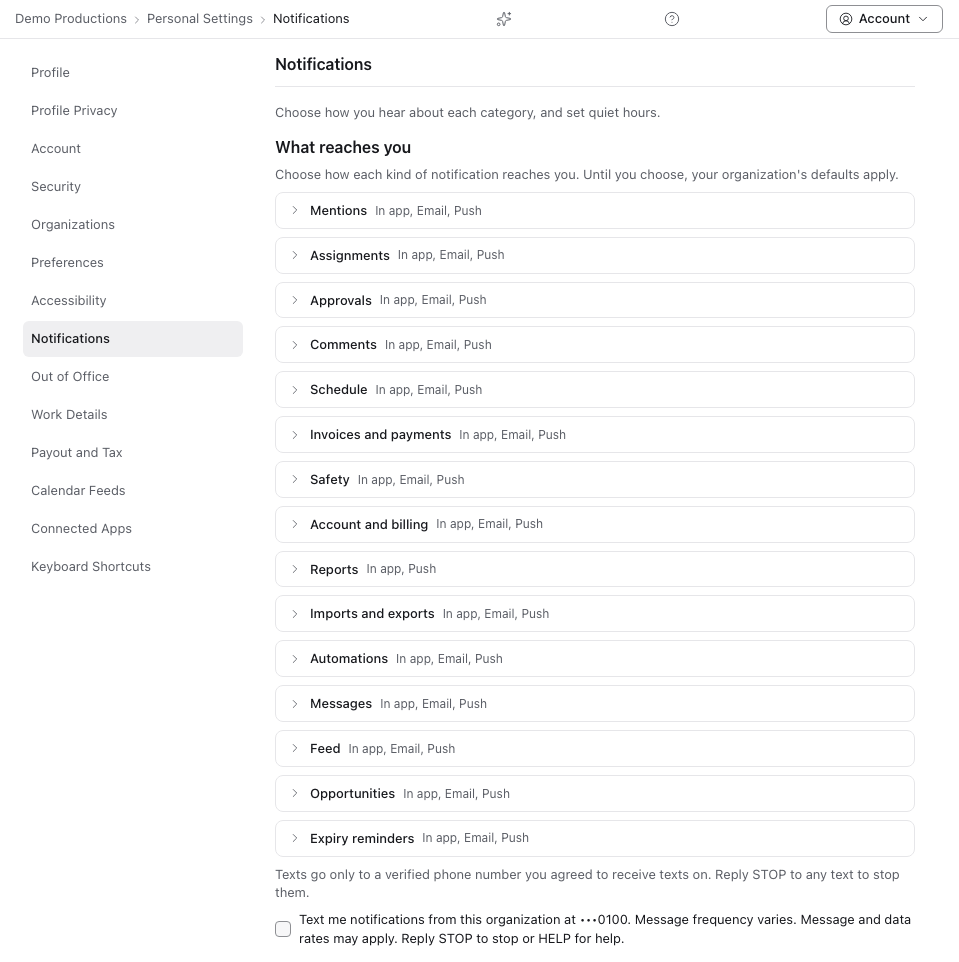
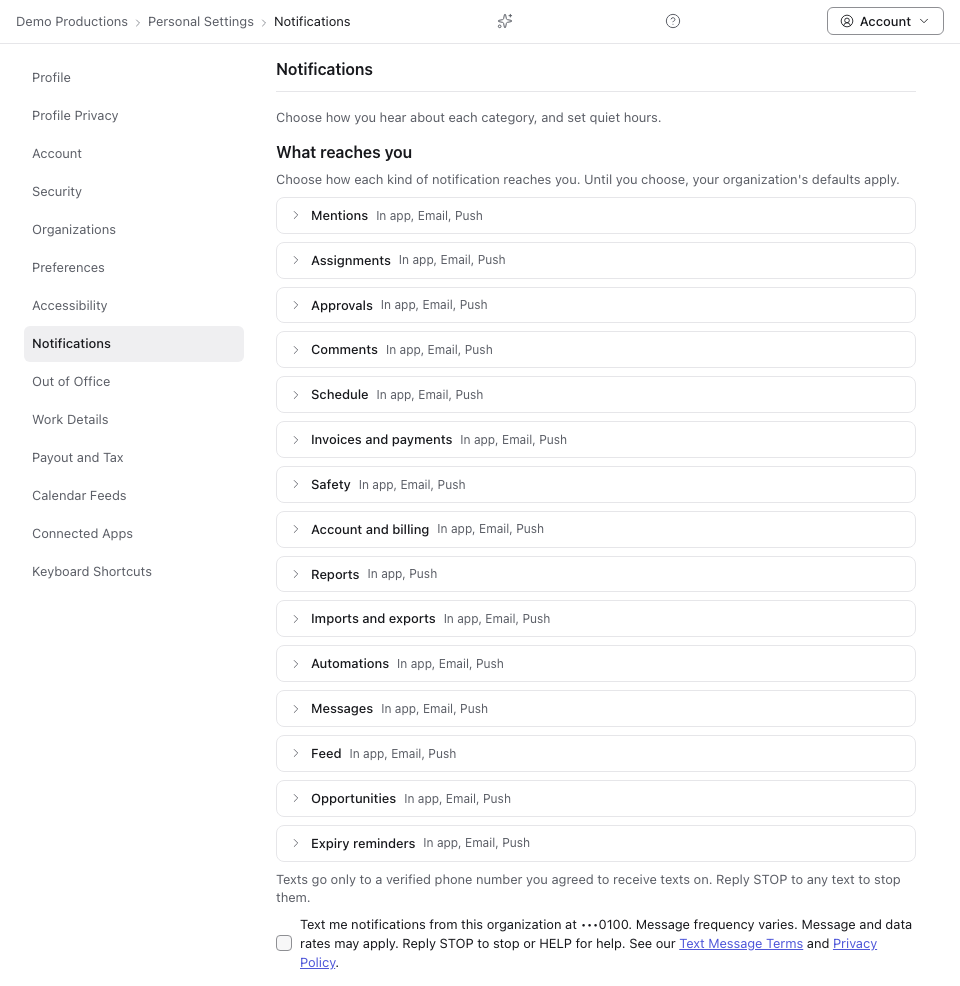
fix(settings): link the Text Message Terms and Privacy Policy in the consent to texts
The 10DLC carrier review asked for a link to the privacy policy in the SMS
consent statement. The consent checkbox in Atlas Personal settings,
Notifications now ends with "See our Text Message Terms and Privacy Policy."
Both names are links inside the label: the terms open /legal/text-message-terms
and the policy opens /legal/privacy-policy#section-17, in a new tab, as the
legal links in Gateway's sign-up do. A click on a link does not tick the box.
Compass shows the same sentence under its consent switch, with the same links
on Atlas.

The docs guides quote the new wording, and /sms-opt-in.png is retaken with it.

Refs: RRR-266

diff --git a/apps/compass/src/screens/settings/Notifications.tsx b/apps/compass/src/screens/settings/Notifications.tsx
@@ -20,7 +20,8 @@ import { getMyQuietHours, listMyNotificationPreferences } from "@xos/data/party-
 import type { Row } from "@xos/sync";
 import { useCallback, useMemo, useState, type ReactElement } from "react";
 import { useTranslation } from "react-i18next";
-import { View } from "react-native";
+import * as Linking from "expo-linking";
+import { Text as NativeText, View } from "react-native";
 import { useCompass } from "../../runtime/CompassProvider";
 import {
   CHANNEL_KEYS,
@@ -40,6 +41,8 @@ import {
   quietHoursOf,
   quietHoursRow,
   quietHoursWrite,
+  SMS_CONSENT_PATHS,
+  smsConsentParts,
   withSmsConsent,
   type QuietHours,
   type QuietHoursInput,
@@ -207,7 +210,8 @@ function QuietHoursCard({
 /** Consent to texts in one org: recorded online only, when the person reads the wording (TCPA, Section 14.5). */
 function TextsCard({ orgId, row }: { readonly orgId: string; readonly row: Row }): ReactElement {
   const { t } = useTranslation();
-  const { client, store, network } = useCompass();
+  const theme = useTheme();
+  const { client, config, store, network } = useCompass();
   const [busy, setBusy] = useState(false);
   const [error, setError] = useState<string | null>(null);
   const settings = orgSettingsOf(row);
@@ -239,13 +243,33 @@ function TextsCard({ orgId, row }: { readonly orgId: string; readonly row: Row }
         {t(`${N}.mine.smsNote`)}
       </Text>
       {settings?.phoneLast4 ? (
-        <Switch
-          testID="notify-texts-consent"
-          label={t(`${N}.mine.smsConsent`, { phone: `•••${settings.phoneLast4}` })}
-          value={settings.mayText}
-          disabled={!online || busy}
-          onChange={(consent) => void record(consent)}
-        />
+        <>
+          <Switch
+            testID="notify-texts-consent"
+            label={t(`${N}.mine.smsConsent`, { phone: `•••${settings.phoneLast4}` })}
+            value={settings.mayText}
+            disabled={!online || busy}
+            onChange={(consent) => void record(consent)}
+          />
+          <Text variant="text13" tone="secondary" testID="notify-texts-links">
+            {smsConsentParts(t(`${N}.mine.smsConsentLinks`)).map((part, i) =>
+              "link" in part ? (
+                <NativeText
+                  key={i}
+                  accessibilityRole="link"
+                  onPress={() =>
+                    void Linking.openURL(`${config.atlasUrl}${SMS_CONSENT_PATHS[part.link]}`)
+                  }
+                  style={{ color: theme.color.accentText, textDecorationLine: "underline" }}
+                >
+                  {part.text}
+                </NativeText>
+              ) : (
+                <NativeText key={i}>{part.text}</NativeText>
+              ),
+            )}
+          </Text>
+        </>
       ) : (
         <Text tone="secondary">{t(`${N}.mine.smsNoPhone`)}</Text>
       )}

diff --git a/apps/atlas/components/settings/notification-forms.tsx b/apps/atlas/components/settings/notification-forms.tsx
@@ -1,6 +1,8 @@
 "use client";
 
 import { Button, Checkbox, InlineAlert, Input, Select } from "@xos/ui";
+import type { Route } from "next";
+import Link from "next/link";
 import { useFormatter, useTranslations } from "next-intl";
 import { useActionState, useState, type ReactNode } from "react";
 import {
@@ -9,6 +11,7 @@ import {
   type NotificationFormState,
 } from "@/app/[org]/settings/notification-actions";
 import { keepInputOnSubmit } from "@/components/collection-kit/keep-input";
+import { SMS_CONSENT_LINKS } from "@/lib/legal-links";
 import { MATRIX_CHANNELS } from "@/lib/settings/notification-matrix";
 import { ChoiceDisclosure } from "./choice-disclosure";
 import * as enums from "@xos/data/enums";
@@ -21,6 +24,40 @@ import * as enums from "@xos/data/enums";
  * channels would put 60 boxes on the page, past gate 27's seven fields (Section 18). A group offers only
  * the channels its category's kinds reach (A104).
  */
+
+/**
+ * A link inside the consent to texts (RRR-266). It opens in a new tab, as the legal links in Gateway's
+ * sign-up do, so the unsaved form stays. A link inside the label does not toggle the box: a click on
+ * interactive content in a label does not activate its control.
+ */
+/** The consent to texts with its links, all inside the label the box is named by. */
+function SmsConsentLabel({ phone }: { readonly phone: string }) {
+  const t = useTranslations("settings.notifications.mine");
+  return (
+    <span>
+      {t("smsConsent", { phone })}{" "}
+      {t.rich("smsConsentLinks", {
+        terms: smsConsentLink(SMS_CONSENT_LINKS.terms),
+        privacy: smsConsentLink(SMS_CONSENT_LINKS.privacy),
+      })}
+    </span>
+  );
+}
+
+function smsConsentLink(href: string) {
+  return function SmsConsentLink(chunks: ReactNode) {
+    return (
+      <Link
+        href={href as Route}
+        target="_blank"
+        rel="noopener"
+        className="text-accent-text underline"
+      >
+        {chunks}
+      </Link>
+    );
+  };
+}
 
 type Translate = (key: string, values?: Record<string, string | number>) => string;
 type Option = { readonly value: string; readonly label: string };
@@ -247,7 +284,7 @@ export function MyNotificationsForm({
             <Checkbox
               name="smsConsent"
               defaultChecked={sms.mayText}
-              label={t("mine.smsConsent", { phone: sms.phone })}
+              label={<SmsConsentLabel phone={sms.phone} />}
             />
           </>
         )}

diff --git a/apps/compass/src/settings/notifications.ts b/apps/compass/src/settings/notifications.ts
@@ -271,6 +271,33 @@ export function withSmsConsent(row: Row, consent: boolean): Row {
   return { ...row, may_text: consent };
 }
 
+/** The pages the consent to texts links, on Atlas (RRR-266): the Text Message Terms and the Privacy Policy's section 17. */
+export const SMS_CONSENT_PATHS = {
+  terms: "/legal/text-message-terms",
+  privacy: "/legal/privacy-policy#section-17",
+} as const;
+
+export type SmsConsentPart =
+  | { readonly text: string }
+  | { readonly text: string; readonly link: keyof typeof SMS_CONSENT_PATHS };
+
+/**
+ * The sentence after the consent to texts split into plain text and its two links. The catalog marks the links with
+ * <terms> and <privacy>, as Atlas's next-intl reads them; i18next leaves the tags in, so Compass splits them here.
+ */
+export function smsConsentParts(message: string): readonly SmsConsentPart[] {
+  const parts: SmsConsentPart[] = [];
+  const tag = /<(terms|privacy)>(.*?)<\/\1>/g;
+  let at = 0;
+  for (const match of message.matchAll(tag)) {
+    if (match.index > at) parts.push({ text: message.slice(at, match.index) });
+    parts.push({ text: match[2] ?? "", link: match[1] as keyof typeof SMS_CONSENT_PATHS });
+    at = match.index + match[0].length;
+  }
+  if (at < message.length) parts.push({ text: message.slice(at) });
+  return parts;
+}
+
 // Quiet hours and the digest: the checks before a save ----------------------------------------------------------------
 
 /** What is wrong with a quiet hours field: not a time, one time without the other, both the same, or no zone. */

diff --git a/apps/atlas/test/legal-links.test.ts b/apps/atlas/test/legal-links.test.ts
@@ -1,7 +1,12 @@
 import { readFileSync } from "node:fs";
 import { describe, expect, it } from "vitest";
 import { parse } from "yaml";
-import { LEGAL_LINK_DOCUMENTS, legalLinks, servesLegalPage } from "@/lib/legal-links";
+import {
+  LEGAL_LINK_DOCUMENTS,
+  legalLinks,
+  servesLegalPage,
+  SMS_CONSENT_LINKS,
+} from "@/lib/legal-links";
 
 /**
  * The public legal links (RRR-248) link only pages Atlas's /legal/[document] serves: a document
@@ -40,5 +45,24 @@ describe("public legal links", () => {
   it("never serves an internal document or an unknown slug", () => {
     expect(servesLegalPage("compliance-matrix")).toBe(false);
     expect(servesLegalPage("no-such-document")).toBe(false);
+  });
+});
+
+describe("the consent to texts links", () => {
+  it("links the Text Message Terms and the Privacy Policy's text message section, both served", () => {
+    expect(SMS_CONSENT_LINKS).toEqual({
+      terms: "/legal/text-message-terms",
+      privacy: "/legal/privacy-policy#section-17",
+    });
+    expect(servesLegalPage("text-message-terms")).toBe(true);
+    expect(servesLegalPage("privacy-policy")).toBe(true);
+  });
+
+  it("points the privacy link at the section headed Text Messages", () => {
+    const policy = readFileSync(
+      new URL("../../../legal/privacy-policy.md", import.meta.url),
+      "utf8",
+    );
+    expect(policy).toMatch(/^## 17\. Text Messages$/m);
   });
 });

diff --git a/apps/compass/test/notification-matrix.test.ts b/apps/compass/test/notification-matrix.test.ts
@@ -25,6 +25,8 @@ import {
   quietHoursRow,
   quietHoursWrite,
   reachedChannels,
+  SMS_CONSENT_PATHS,
+  smsConsentParts,
   withSmsConsent,
 } from "../src/settings/notifications";
 
@@ -305,6 +307,25 @@ describe("the member's quiet hours, digest and texts in an org", () => {
   it("show consent to texts once the server recorded it", () => {
     const row = orgSettingsRow(ORG, null, null, "UTC", { phone: "+13055550142", mayText: false });
     expect(orgSettingsOf(withSmsConsent(row, true))?.mayText).toBe(true);
+  });
+
+  it("split the consent's link sentence into text and the two legal links", () => {
+    expect(
+      smsConsentParts(
+        "See our <terms>Text Message Terms</terms> and <privacy>Privacy Policy</privacy>.",
+      ),
+    ).toEqual([
+      { text: "See our " },
+      { text: "Text Message Terms", link: "terms" },
+      { text: " and " },
+      { text: "Privacy Policy", link: "privacy" },
+      { text: "." },
+    ]);
+    expect(smsConsentParts("No links.")).toEqual([{ text: "No links." }]);
+    expect(SMS_CONSENT_PATHS).toEqual({
+      terms: "/legal/text-message-terms",
+      privacy: "/legal/privacy-policy#section-17",
+    });
   });
 });
 

diff --git a/apps/atlas/lib/legal-links.ts b/apps/atlas/lib/legal-links.ts
@@ -42,3 +42,13 @@ export function legalLinks(): { key: LegalLinkKey; href: `/legal/${string}` }[] 
     href: `/legal/${d.slug}`,
   }));
 }
+
+/**
+ * The pages the consent to texts links in Personal settings, Notifications (RRR-266): the Text
+ * Message Terms and the Privacy Policy's section on text messages. US carriers review the consent
+ * statement for both links.
+ */
+export const SMS_CONSENT_LINKS = {
+  terms: "/legal/text-message-terms",
+  privacy: "/legal/privacy-policy#section-17",
+} as const;

diff --git a/apps/docs/content/guides/es-US/text-messages.md b/apps/docs/content/guides/es-US/text-messages.md
@@ -19,13 +19,13 @@ Aceptar es opcional. No es una condición para trabajar con ninguna organizació
 
 1. Inicia sesión en Atlas y abre **Configuración personal** y luego **Notificaciones**.
 2. Asegúrate de que tu cuenta tenga un número de teléfono verificado. Mientras no lo tenga, la página dice "Agrega y verifica un número de teléfono en tu cuenta para recibir mensajes de texto." y no muestra la casilla de consentimiento.
-3. En **Qué te llega**, marca la casilla que dice: "Envíame notificaciones de esta organización por mensaje de texto al {phone}. La frecuencia de los mensajes varía. Pueden aplicarse tarifas de mensajes y datos. Responde STOP para detenerlos o HELP para obtener ayuda." En lugar de {phone}, la casilla muestra los últimos cuatro dígitos de tu número verificado.
+3. En **Qué te llega**, marca la casilla que dice: "Envíame notificaciones de esta organización por mensaje de texto al {phone}. La frecuencia de los mensajes varía. Pueden aplicarse tarifas de mensajes y datos. Responde STOP para detenerlos o HELP para obtener ayuda. Consulta nuestros Términos de mensajes de texto y nuestra Política de privacidad." En lugar de {phone}, la casilla muestra los últimos cuatro dígitos de tu número verificado. "Términos de mensajes de texto" y "Política de privacidad" son enlaces a esos documentos. Se abren en una pestaña nueva y no marcan la casilla.
 4. En la misma lista, elige qué tipos de notificaciones te llegan por **Mensaje de texto (SMS)**.
 5. Selecciona **Guardar configuración de notificaciones**.
 
 La casilla está sin marcar hasta que la marcas. Aparece marcada solo si ya aceptaste para esa organización y ese número.
 
-![La página Notificaciones de la Configuración personal de Atlas. Bajo el encabezado What reaches you (Qué te llega), una casilla sin marcar dice: Text me notifications from this organization at, seguido de un número de teléfono oculto. Message frequency varies. Message and data rates may apply. Reply STOP to stop or HELP for help.](/sms-opt-in.png)
+![La página Notificaciones de la Configuración personal de Atlas. Bajo el encabezado What reaches you (Qué te llega), una casilla sin marcar dice: Text me notifications from this organization at, seguido de un número de teléfono oculto. Message frequency varies. Message and data rates may apply. Reply STOP to stop or HELP for help. See our Text Message Terms and Privacy Policy. Text Message Terms (Términos de mensajes de texto) y Privacy Policy (Política de privacidad) son enlaces.](/sms-opt-in.png)
 
 ## El consentimiento es por organización
 

diff --git a/apps/docs/content/guides/en-US/text-messages.md b/apps/docs/content/guides/en-US/text-messages.md
@@ -19,13 +19,13 @@ Agreeing is optional. It is not a condition of working with any organization or 
 
 1. Sign in to Atlas and open **Personal settings**, then **Notifications**.
 2. Make sure your account has a verified phone number. Until it does, the page says "Add and verify a phone number on your account to receive texts." and shows no consent box.
-3. Under **What reaches you**, tick the box that reads: "Text me notifications from this organization at {phone}. Message frequency varies. Message and data rates may apply. Reply STOP to stop or HELP for help." In place of {phone}, the box shows the last four digits of your verified number.
+3. Under **What reaches you**, tick the box that reads: "Text me notifications from this organization at {phone}. Message frequency varies. Message and data rates may apply. Reply STOP to stop or HELP for help. See our Text Message Terms and Privacy Policy." In place of {phone}, the box shows the last four digits of your verified number. "Text Message Terms" and "Privacy Policy" are links to those documents. They open in a new tab and do not tick the box.
 4. Choose which kinds of notifications reach you by **Text (SMS)** in the same list.
 5. Select **Save notification settings**.
 
 The box is unchecked until you tick it. It shows checked only when you already agreed for that organization and number.
 
-![The Notifications page in Atlas Personal settings. Under the heading What reaches you, an unchecked box reads: Text me notifications from this organization at a masked phone number. Message frequency varies. Message and data rates may apply. Reply STOP to stop or HELP for help.](/sms-opt-in.png)
+![The Notifications page in Atlas Personal settings. Under the heading What reaches you, an unchecked box reads: Text me notifications from this organization at a masked phone number. Message frequency varies. Message and data rates may apply. Reply STOP to stop or HELP for help. See our Text Message Terms and Privacy Policy. Text Message Terms and Privacy Policy are links.](/sms-opt-in.png)
 
 ## Consent is per organization
 
